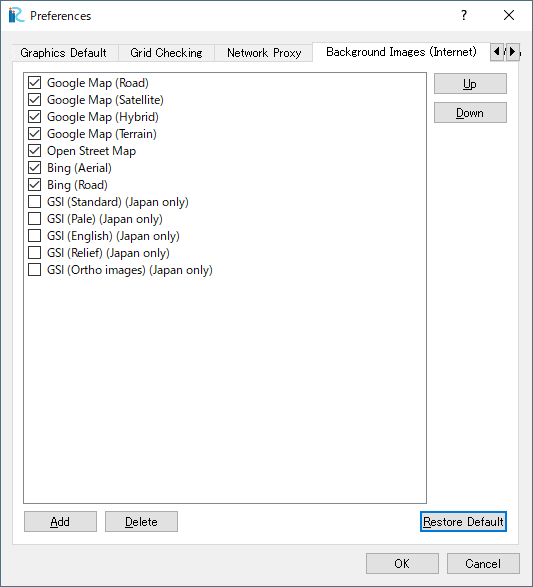
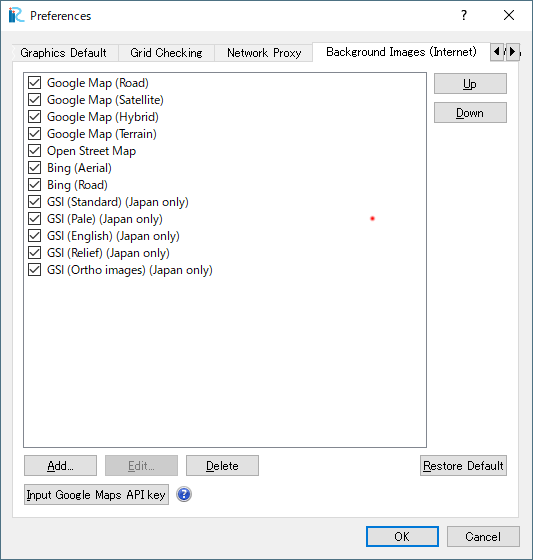
Description about Google Maps API key is added.

diff --git a/source/03/09_01_preference.rst b/source/03/09_01_preference.rst
@@ -84,6 +84,14 @@ Window and 2D Post-processing Windows.
 
    The [Preferences] dialog [Background Images (Internet)] tab
 
+In 2018, Google migrated Google Maps into Google Maps Platform, and now we need to input 
+API key to use Google Maps images as Backgound Images on iRIC. Input API key
+from "Input Google Maps API key" button.
+
+Please refer the following URL to know how to get a API key:
+
+https://cloud.google.com/maps-platform/?hl=en
+
 [Web Elevation Data] tab
 ~~~~~~~~~~~~~~~~~~~~~~~~~~~~
 
